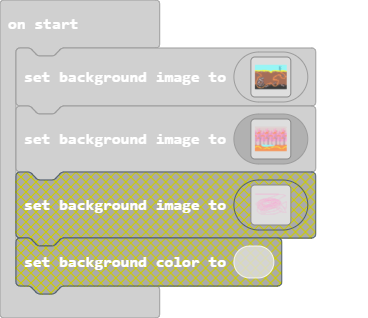
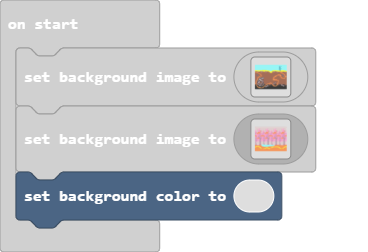
Update main.blocks, main.ts

diff --git a/main.ts b/main.ts
@@ -1,2 +1,3 @@
 scene.setBackgroundImage(assets.image`level 2`)
 scene.setBackgroundImage(assets.image`level 1`)
+scene.setBackgroundColor(0)
